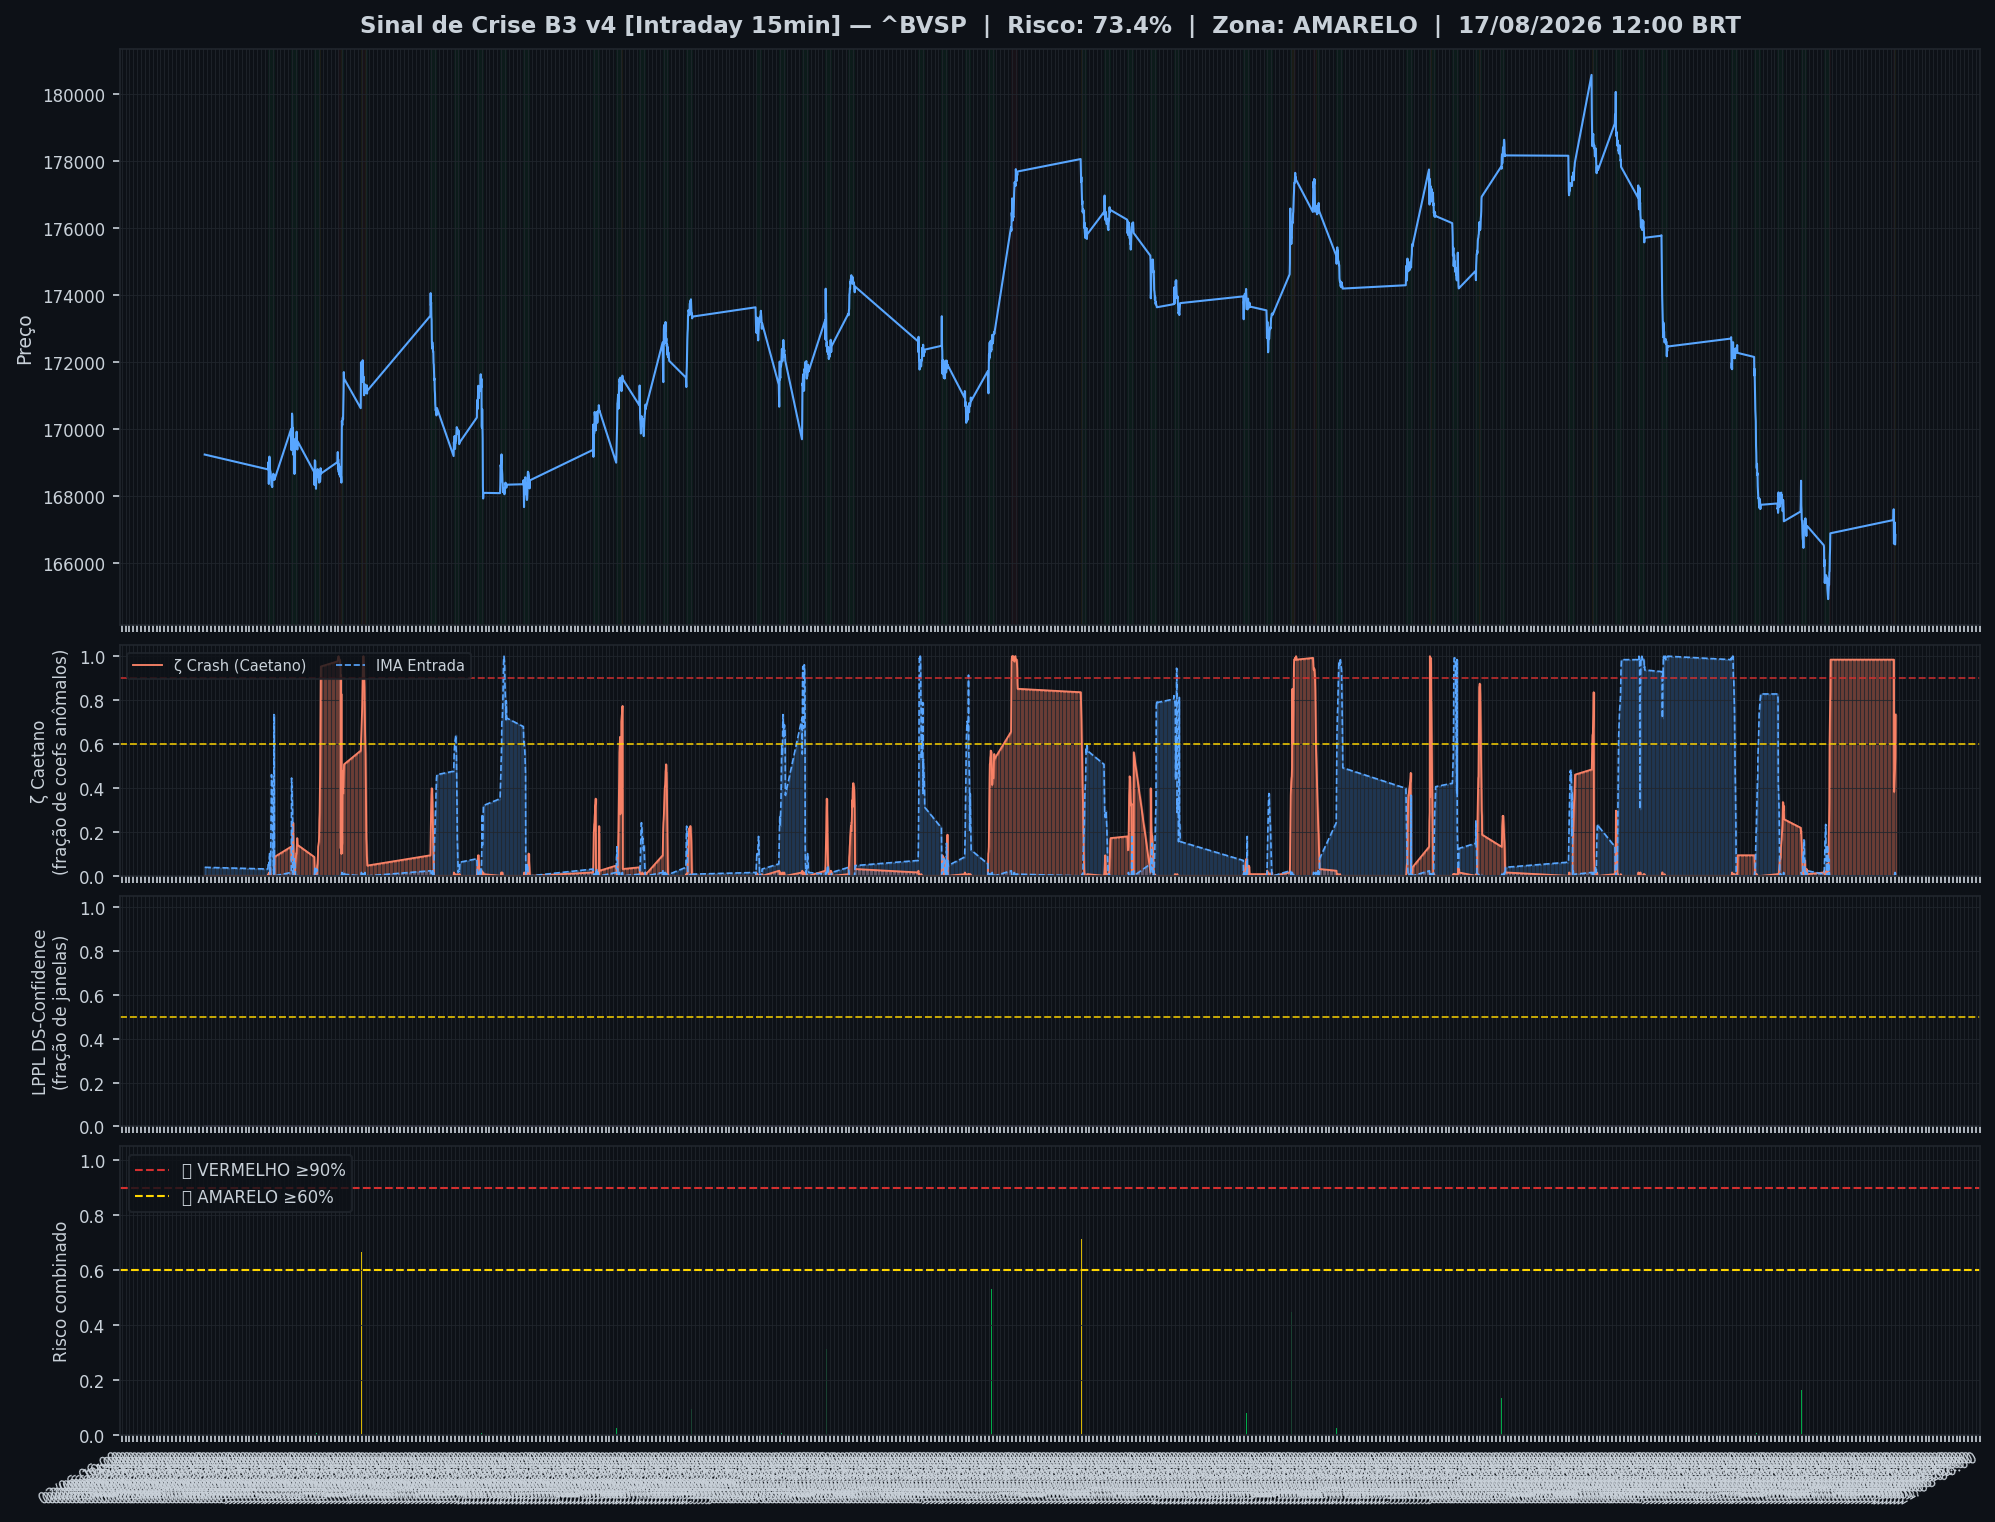
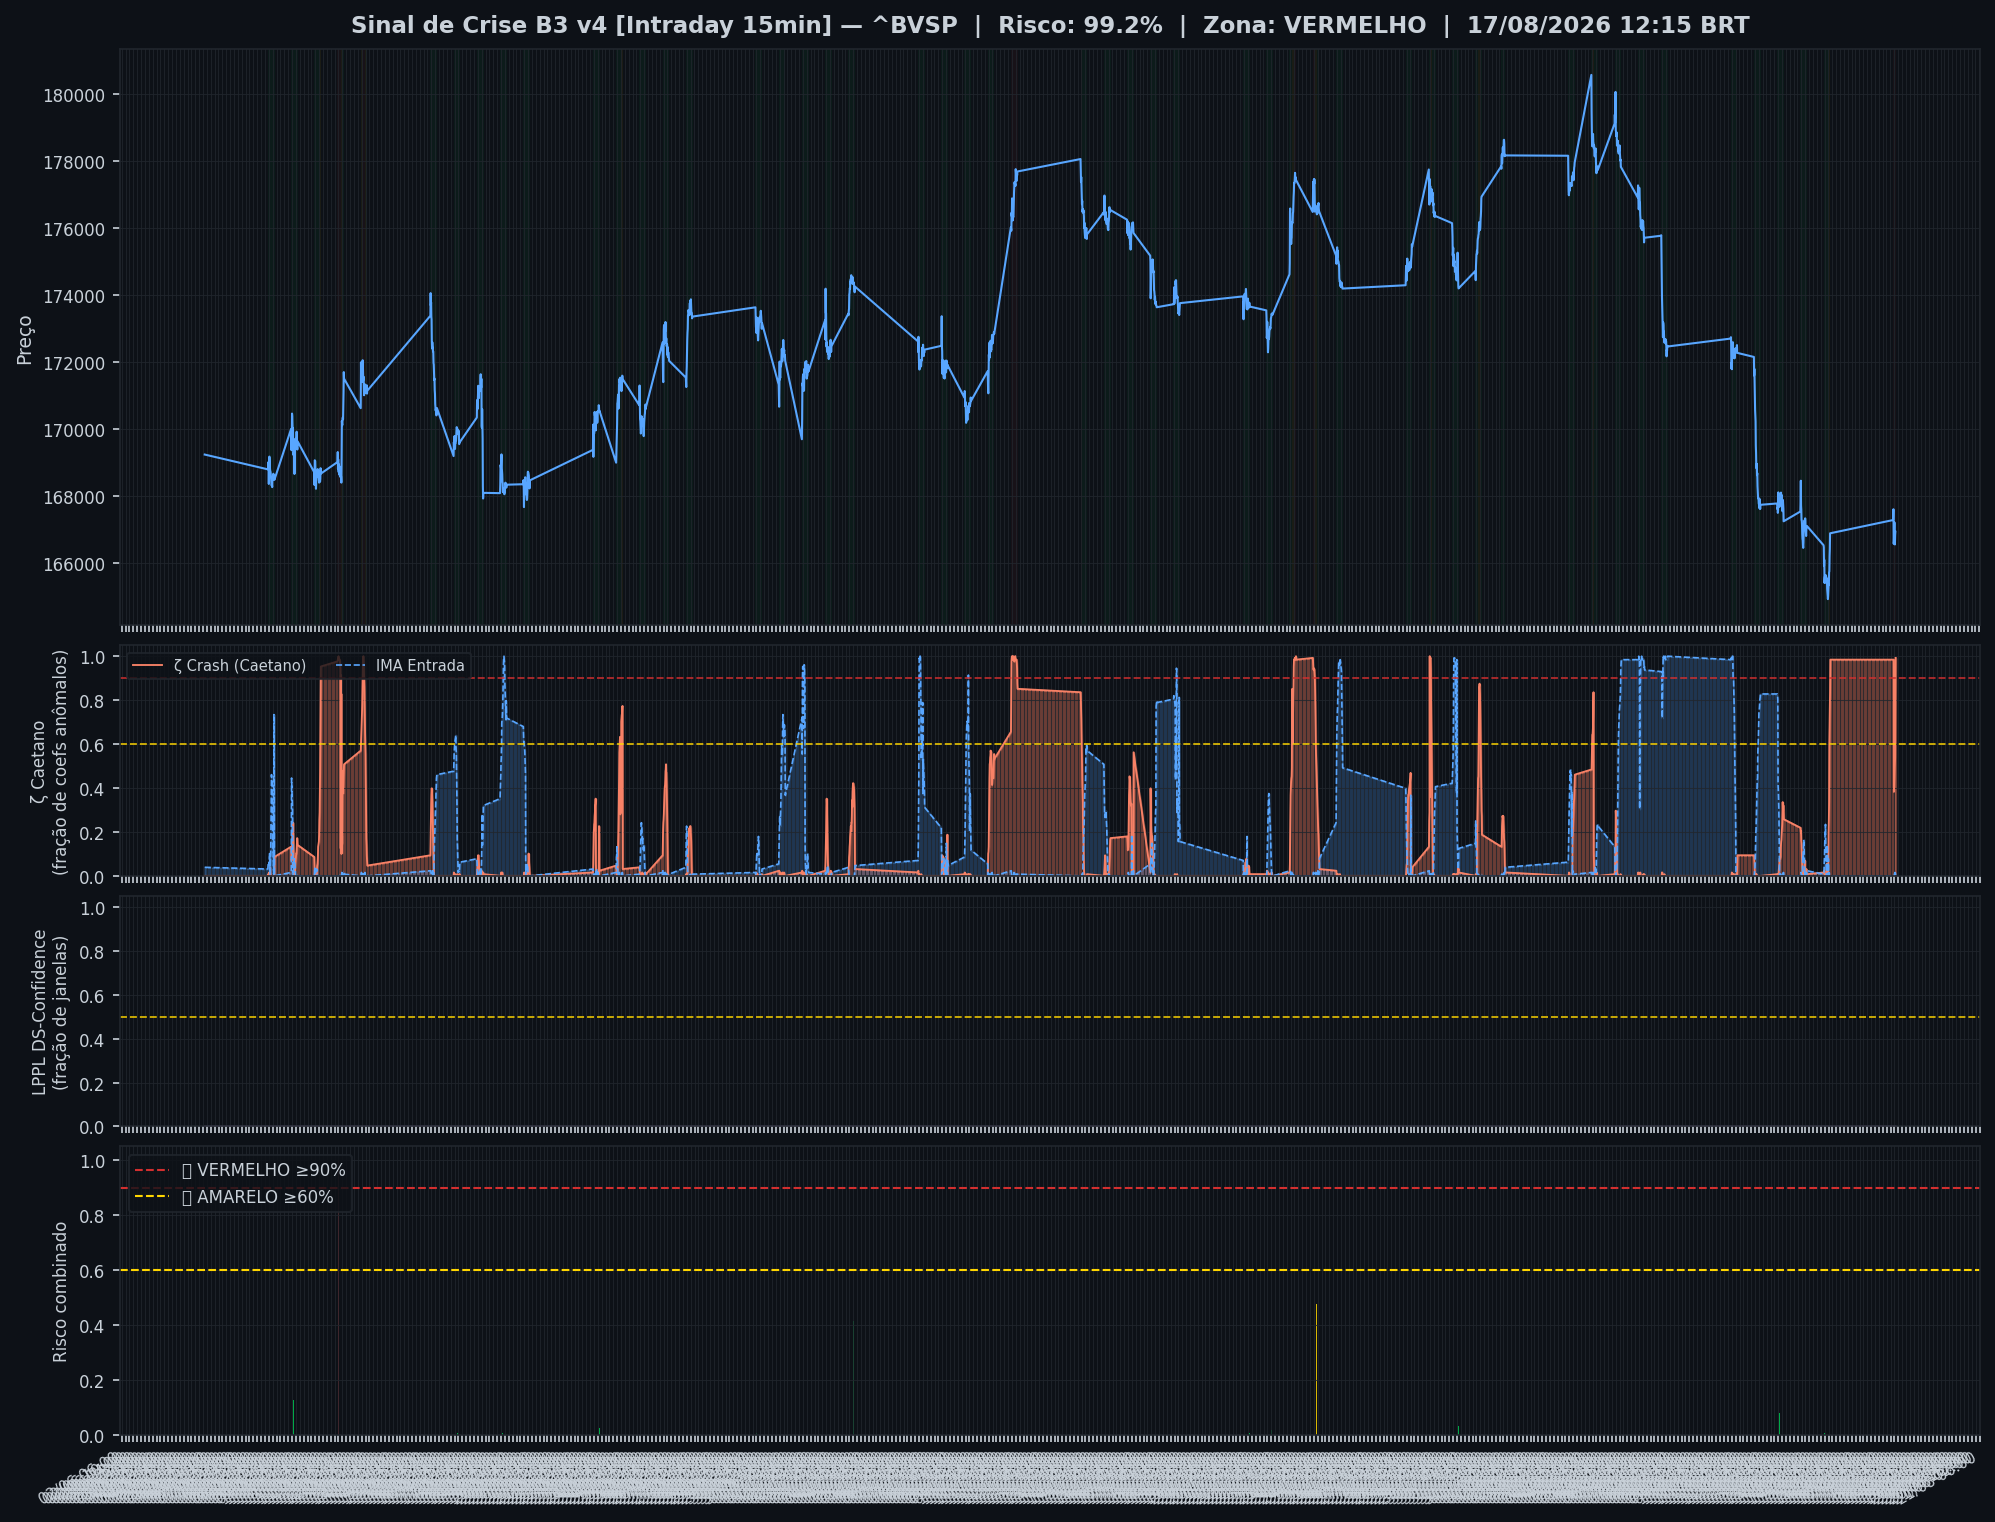
🤖 Auto: Sinal 17/08/2026 13:00

diff --git a/content/intraday/2026-08-17.md b/content/intraday/2026-08-17.md
@@ -1,20 +1,20 @@
 ---
-title: "🟡 Intraday 17/08/2026 12:00 BRT — AMARELO"
+title: "🔴 Intraday 17/08/2026 12:15 BRT — VERMELHO"
 date: 2026-08-17
 tags: [intraday]
 ---
 
-> [!warning] 🟡 **AMARELO** — Risco 73% · ▲ +20 p.p. vs leitura anterior
-> `███████████████░░░░░`
-> Atenção — padrão de coeficientes associado a quedas mais severas.
+> [!danger] 🔴 **VERMELHO** — Risco 99% · ▲ +26 p.p. vs leitura anterior
+> `████████████████████`
+> ALERTA DE CRISE — padrão pré-crise detectado.
 
 
 | Indicador | Valor |
 |---|---|
-| 🔴 ζ Crash — severidade da queda em curso | **73%** |
-| 🔵 ζ Entrada — estrutura de fundo | 0% |
+| 🔴 ζ Crash — severidade da queda em curso | **99%** |
+| 🔵 ζ Entrada — estrutura de fundo | 1% |
 | 🫧 LPPL DS-Confidence | 0% |
-| 📊 Ibovespa | 166.829 pts |
+| 📊 Ibovespa | 166.925 pts |
 
 ![Gráfico do sinal](../graficos/sinal_intraday.png)
 
@@ -22,6 +22,7 @@ tags: [intraday]
 
 | Data | Zona | Risco | IMA Crash | Entrada | LPPL |
 |---|---|---|---|---|---|
+| 2026-08-17 12:15 | 🔴 VERMELHO | **99%** | 99% | 1% | 0% |
 | 2026-08-17 12:00 | 🟡 AMARELO | **73%** | 73% | 0% | 0% |
 | 2026-08-17 11:45 | 🟢 VERDE | **54%** | 54% | 1% | 0% |
 | 2026-08-17 11:30 | 🟢 VERDE | **50%** | 50% | 2% | 0% |
@@ -51,7 +52,6 @@ tags: [intraday]
 | 2026-08-14 12:30 | 🟢 VERDE | **0%** | 0% | 3% | 0% |
 | 2026-08-14 12:15 | 🟢 VERDE | **0%** | 0% | 8% | 0% |
 | 2026-08-14 12:00 | 🟢 VERDE | **0%** | 0% | 13% | 0% |
-| 2026-08-14 11:45 | 🟢 VERDE | **0%** | 0% | 23% | 0% |
 
 ## Monitor Multi-Ativo
 
@@ -59,35 +59,35 @@ tags: [intraday]
 
 | Zona | Ativo | Setor | IMA Crash | IMA Entrada |
 |---|---|---|---|---|
-| 🟢 | **VALE** | Mineração | 0.0% | 65.6% |
-| 🟢 | **ITAUUNIBANCO** | Financeiro | 0.0% | 65.6% |
-| 🟢 | **PETROBRAS** | Petróleo | 0.0% | 65.6% |
-| 🟢 | **AXIA ENERGIA** | Energia | 0.0% | 60.2% |
-| 🟢 | **PETROBRAS** | Petróleo | 0.0% | 65.6% |
-| 🟢 | **BRADESCO** | Financeiro | 0.0% | 65.6% |
-| 🟢 | **ITAUSA** | Financeiro | 0.0% | 65.6% |
-| 🟢 | **B3** | Financeiro | 0.0% | 65.6% |
-| 🟢 | **WEG** | Industrial | 0.0% | 65.6% |
-| 🟢 | **EMBRAER** | Outros | 0.0% | 60.2% |
-| 🟢 | **SABESP** | Saneamento | 0.0% | 65.6% |
-| 🟢 | **AMBEV S/A** | Consumo | 0.0% | 65.6% |
+| 🟢 | **VALE** | Mineração | 0.0% | 69.5% |
+| 🟢 | **ITAUUNIBANCO** | Financeiro | 0.0% | 69.5% |
+| 🟢 | **PETROBRAS** | Petróleo | 0.0% | 69.5% |
+| 🟢 | **AXIA ENERGIA** | Energia | 0.0% | 69.5% |
+| 🟢 | **PETROBRAS** | Petróleo | 0.0% | 69.5% |
+| 🟢 | **BRADESCO** | Financeiro | 0.0% | 69.5% |
+| 🟢 | **ITAUSA** | Financeiro | 0.0% | 69.5% |
+| 🟢 | **B3** | Financeiro | 0.0% | 69.5% |
+| 🟢 | **WEG** | Industrial | 0.0% | 69.5% |
+| 🟢 | **EMBRAER** | Outros | 0.0% | 65.6% |
+| 🟢 | **SABESP** | Saneamento | 0.0% | 69.5% |
+| 🟢 | **AMBEV S/A** | Consumo | 0.0% | 69.5% |
 | 🟢 | **BTGP BANCO** | Financeiro | 0.0% | 65.6% |
-| 🟢 | **BRASIL** | Financeiro | 0.0% | 65.6% |
-| 🟢 | **ENEVA** | Energia | 0.0% | 65.6% |
-| 🟢 | **PRIO** | Petróleo | 0.0% | 65.6% |
-| 🟢 | **EQUATORIAL** | Energia | 0.0% | 65.6% |
-| 🟢 | **COPEL** | Energia | 0.0% | 65.6% |
-| 🟢 | **VIBRA** | Energia | 0.0% | 65.6% |
-| 🟢 | **REDE D OR** | Saúde | 0.0% | 65.6% |
-| 🟢 | **ULTRAPAR** | Outros | 0.0% | 65.6% |
-| 🟢 | **LOCALIZA** | Aluguel | 0.0% | 65.6% |
-| 🟢 | **GERDAU** | Siderurgia | 0.0% | 65.6% |
+| 🟢 | **BRASIL** | Financeiro | 0.0% | 69.5% |
+| 🟢 | **ENEVA** | Energia | 0.0% | 69.5% |
+| 🟢 | **PRIO** | Petróleo | 0.0% | 69.5% |
+| 🟢 | **EQUATORIAL** | Energia | 0.0% | 69.5% |
+| 🟢 | **COPEL** | Energia | 0.0% | 69.5% |
+| 🟢 | **VIBRA** | Energia | 0.0% | 69.5% |
+| 🟢 | **REDE D OR** | Saúde | 0.0% | 69.5% |
+| 🟢 | **ULTRAPAR** | Outros | 0.0% | 69.5% |
+| 🟢 | **LOCALIZA** | Aluguel | 0.0% | 69.5% |
+| 🟢 | **GERDAU** | Siderurgia | 0.0% | 69.5% |
 | 🟢 | **SUZANO S.A.** | Papel/Celulose | 0.0% | 65.6% |
 | 🟢 | **USD/BRL** | Câmbio | 0.0% | 69.5% |
 
 ![Monitor multi-ativo](../graficos/multi_intraday.png)
 
-*Página atualizada em 17/08/2026 12:45 BRT (leitura da barra de 2026-08-17 12:00 BRT).*
+*Página atualizada em 17/08/2026 13:00 BRT (leitura da barra de 2026-08-17 12:15 BRT).*
 
 > [!info]- Como interpretar (clique para expandir)
 > - **ζ Crash**: fração dos coeficientes wavelet acima do corte (Caetano & Yoneyama 2009). Escala absoluta: ζ=0,90 = 90% dos coeficientes anômalos — historicamente, quedas com ζ≥0,90 foram mais fundas e mais longas. **Mede a severidade do movimento em curso, não prevê o início da queda.**

diff --git a/content/index.md b/content/index.md
@@ -4,23 +4,23 @@ date: 2026-08-17
 tags: [home]
 ---
 
-# 🟡 Sinal de Crise B3
+# 🔴 Sinal de Crise B3
 
 Monitoramento diário e intraday do Ibovespa — **IMA Wavelet** (Prof. Marco Antonio Leonel Caetano, ITA/INSPER) + **LPPL DS-Confidence** (Prof. Didier Sornette, ETH-Zurich).
 
-*Última atualização: 17/08/2026 12:45 BRT · ^BVSP · Intraday 15min · v4*
+*Última atualização: 17/08/2026 13:00 BRT · ^BVSP · Intraday 15min · v4*
 
-> [!warning] 🟡 **AMARELO** — Risco 73% · ▲ +20 p.p. vs leitura anterior
-> `███████████████░░░░░`
-> Atenção — padrão de coeficientes associado a quedas mais severas.
+> [!danger] 🔴 **VERMELHO** — Risco 99% · ▲ +26 p.p. vs leitura anterior
+> `████████████████████`
+> ALERTA DE CRISE — padrão pré-crise detectado.
 
 
 | Indicador | Valor |
 |---|---|
-| 🔴 ζ Crash — severidade da queda em curso | **73%** |
-| 🔵 ζ Entrada — estrutura de fundo | 0% |
+| 🔴 ζ Crash — severidade da queda em curso | **99%** |
+| 🔵 ζ Entrada — estrutura de fundo | 1% |
 | 🫧 LPPL DS-Confidence | 0% |
-| 📊 Ibovespa | 166.829 pts |
+| 📊 Ibovespa | 166.925 pts |
 
 **Multi-ativo:** 0% em tensão (0🔴 0🟡 de 25 ativos)
 
@@ -32,7 +32,7 @@ Monitoramento diário e intraday do Ibovespa — **IMA Wavelet** (Prof. Marco An
 
 | Data | Zona | Risco | IMA | LPPL |
 |---|---|---|---|---|
-| [17 Aug 2026](diario/2026-08-17) | 🟡 AMARELO | **73%** | 73% | 0% |
+| [17 Aug 2026](diario/2026-08-17) | 🔴 VERMELHO | **99%** | 99% | 0% |
 | [14 Aug 2026](diario/2026-08-14) | 🔴 VERMELHO | **98%** | 98% | 0% |
 
 ## Navegação

diff --git a/content/historico.md b/content/historico.md
@@ -7,6 +7,7 @@ tags: [historico]
 
 | Data | Modo | Zona | Risco | IMA | LPPL |
 |---|---|---|---|---|---|
+| 2026-08-17 12:15 | intraday | 🔴 VERMELHO | 99% | 99% | 0% |
 | 2026-08-17 12:00 | intraday | 🟡 AMARELO | 73% | 73% | 0% |
 | 2026-08-17 11:45 | intraday | 🟢 VERDE | 54% | 54% | 0% |
 | 2026-08-17 11:30 | intraday | 🟢 VERDE | 50% | 50% | 0% |
